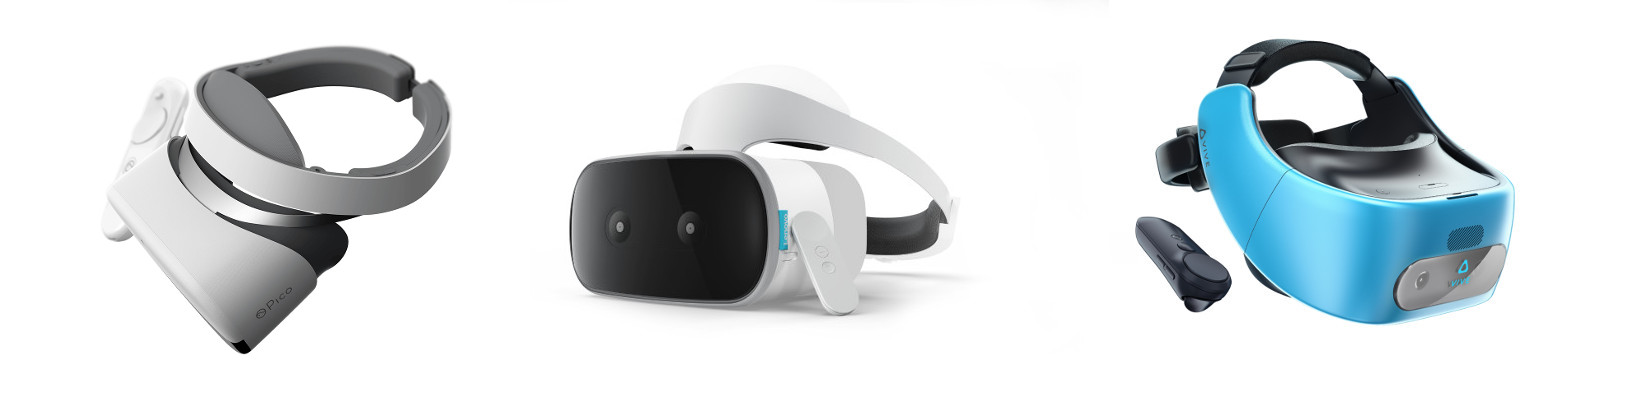
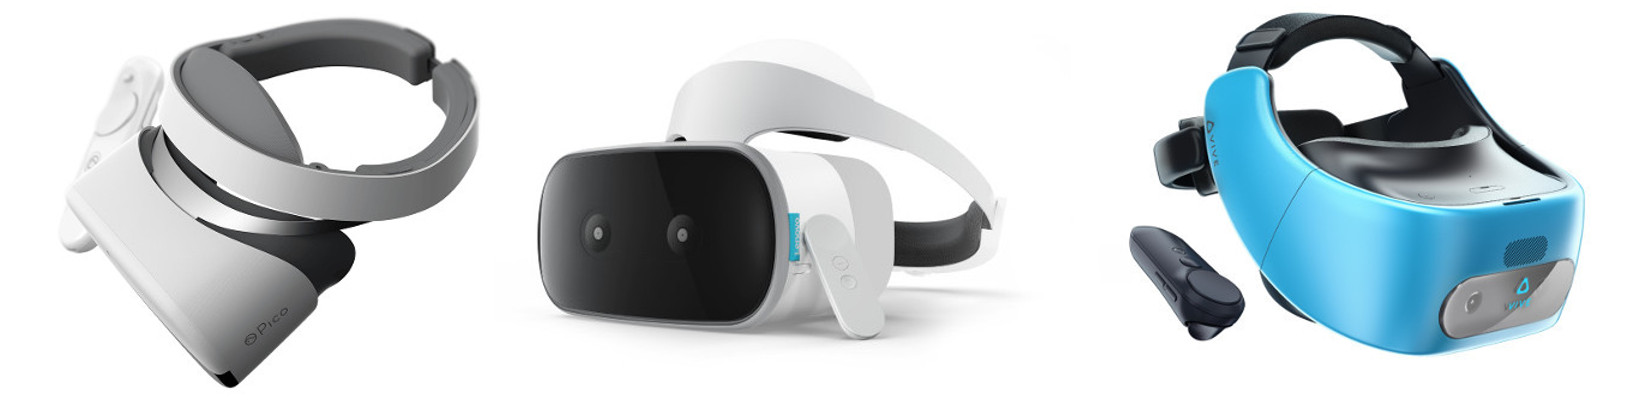
new HMDS 2019
and new Visualisation section

Changed region(s): [[0.0311, 0.03, 0.622, 0.96], [0.6841, 0.03, 0.964, 0.9]]

diff --git a/index.html b/index.html
@@ -66,13 +66,13 @@
     <div class="collapse navbar-collapse" id="navbar-1" >
       <ul class="nav navbar-nav navbar-right navbar-uppercase">
             <li class="social-links">
-                <a href="https://www.facebook.com/headgear.io">
+                <a href="https://www.facebook.com/headgear.io" target="_blank">
                     <i class="fab fa-facebook"></i>
                 </a>
-                <a href="https://twitter.com/headgearIO">
+                <a href="https://twitter.com/headgearIO" target="_blank">
                     <i class="fab fa-twitter"></i>
                 </a>
-                <a href="mailto:mail@headgear.io">
+                <a href="mailto:mail@headgear.io" target="_blank">
                   <i class="fas fa-envelope"></i>
                 </a>
                 <!-- <a href="https://www.youtube.com/channel/UCJb36p4K3-65ImeF3I1QfSQ">
@@ -139,7 +139,7 @@
                 <div class="row">
                     <div class="col-md-4 col-sm-4">
                       <div  class="title add-animation">
-                          <h5 class="text-gray">Est. 2014</h5>
+                          <h5 class="text-gray">We've Got 'em All!</h5>
                           <h2>Find your <br> headset</h2>
                           <div class="separator-container">
                           <div class="separator line-separator"><i class="fas fa-vr-cardboard"></i></div>
@@ -163,14 +163,16 @@
           <!-- Wrapper for slides -->
           <div class="carousel-inner pattern-image animate">
             <div class="item  active">
+              <img class="full-image" src="assets/img/VR-standalone-headsets-Vive-Cosmos-Oculus-Quest.jpg" alt="HTC Vive Cosmos, Oculus Quest" title="Standalone VR/AR Devices 6DoF Controllers"/>
+            </div>
+            <div class="item">
               <img class="full-image" src="assets/img/VR-standalone-headsets-Vive-Focus-Pico-Neo-Lenovo-Mirage-Solo.jpg" alt="HTC Vive Focus, Pico Interactive Neo, Lenovo Mirage Solo" title="Standalone VR/AR Devices"/>
             </div>
-
             <div class="item">
                <img class="full-image" src="assets/img/premium-mobile-HMD-headsets-Samsung-Gear-VR-Goolge-Daydream-VR-Oculus-Go.jpg" alt="Samsung GearVR powered by Oculus, Google Daydream, Oculus Go," title="Mobile VR HMDs"/>
             </div>
             <div class="item">
-               <img class="full-image" src="assets/img/AR-headsets-Magic-Leap-Meta-2-Microsoft-hololens.jpg" alt="Magic Leap One, Meta, Microsoft Hololens" title="Augmented Reality headsets"/>
+               <img class="full-image" src="assets/img/AR-headsets-Magic-Leap-Microsoft-hololens-2.jpg" alt="Magic Leap One, Meta, Microsoft Hololens" title="Augmented Reality headsets"/>
             </div>
           </div>
           <!-- Controls -->
@@ -252,11 +254,11 @@
             </div>
           <div class="col-md-6">
                 <div class="project add-animation animation-2">
-                      <img src="assets/img/equirectangular-panorama-mars-rover.jpg" alt="360 videos production, filming and post" title="NASA Mars rover 360 shot"/>
+                      <img src="assets/img/unreal-engine-VR-product-visulisation.png" alt="360 videos production, filming and post" title="NASA Mars rover 360 shot"/>
                        <a class="over-area " href="javascript:void(0)" onClick="rubik.showModal(this)" data-target="project_2">
                            <div class="content">
-                              <h4 >360º Videos</h4>
-                              <p>A new kind of storytelling occurs when the viewer can look anywhere, so there needs to be a compelling reason to film 360 in the first place.</p>
+                              <h4 >Visualisation</h4>
+                              <p>A new kind of way to look at anything with the power of realtime rendering.</p>
                               <p style="color:#DFAB1C;">Click for more details...</span></p>
                           </div>
                       </a>
@@ -725,7 +727,7 @@
       <div class="container">
         <div class="project-title">
           <h5 >Beyond the Camera Frame</h5>
-            <h2>See the world around you</h2>
+            <h2>Architectural & Product Visualisation</h2>
             <div class="separator-container">
               <div class="separator line-separator"><i class="fas fa-vr-cardboard"></i></div>
             </div>
@@ -734,19 +736,24 @@
           <div class="row">
             <div class="col-md-4">
               <div class="project-text text-right">
-                  <p>360 cameras range the gamut from consumer to professional. With so many formats and resolutions it's hard to know what to use, but actually the most important part is why the narrative should be told in 360.</p>
-                  <p>Immersive Storytelling is wildly different when it comes to Cinematic VR with a lot of care taken about the 3D audio experience, cut scene changes and camera movement (to avoid motion sickness) using radio controlled grips.</p>
+                <p></p>
+                <p></p>
+                  <!-- <p>360 cameras range the gamut from consumer to professional. With so many formats and resolutions it's hard to know what to use, but actually the most important part is why the narrative should be told in 360.</p>
+                  <p>Immersive Storytelling is wildly different when it comes to Cinematic VR with a lot of care taken about the 3D audio experience, cut scene changes and camera movement (to avoid motion sickness) using radio controlled grips.</p> -->
               </div>
             </div>
             <div class="col-md-4">
               <div class="project-image">
-                  <iframe width="100%" height="300px" src="https://www.youtube.com/embed/o_osFmuS2L4" frameborder="0" allowfullscreen></iframe>
+                <img src="assets/img/UE4-visualisation.gif" alt="Using Unreal Engine Studio for Cinematic Renderings and Virtual Reality experiences" title="ArchViz"/>
+
+                  <!-- <iframe width="100%" height="300px" src="https://www.youtube.com/embed/o_osFmuS2L4" frameborder="0" allowfullscreen></iframe> -->
                 </div>
             </div>
             <div class="col-md-4">
               <div class="project-text">
-                  <p>The boundaries between audience and action are slowly slipping away, because there is no behind the camera anymore. The viewer is completely immersed in the environment and as storytellers new techniques are used to direct one's attention.</p>
-                  <p>All the best practices from storyboarding to post-production has changed. Engaging the viewer in completely new ways, whether they're using the browser, mobile or headset has to be taken into account.</p>
+
+                  <!-- <p>The boundaries between audience and action are slowly slipping away, because there is no behind the camera anymore. The viewer is completely immersed in the environment and as storytellers new techniques are used to direct one's attention.</p>
+                  <p>All the best practices from storyboarding to post-production has changed. Engaging the viewer in completely new ways, whether they're using the browser, mobile or headset has to be taken into account.</p> -->
               </div>
             </div>
           </div>
